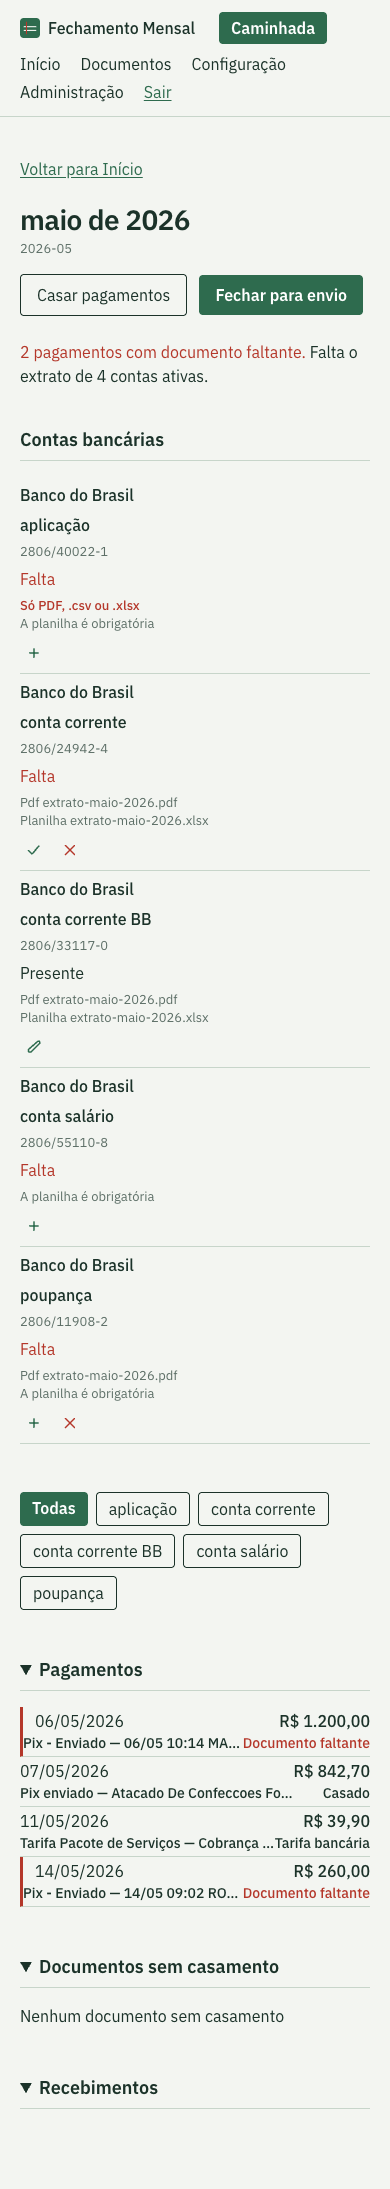
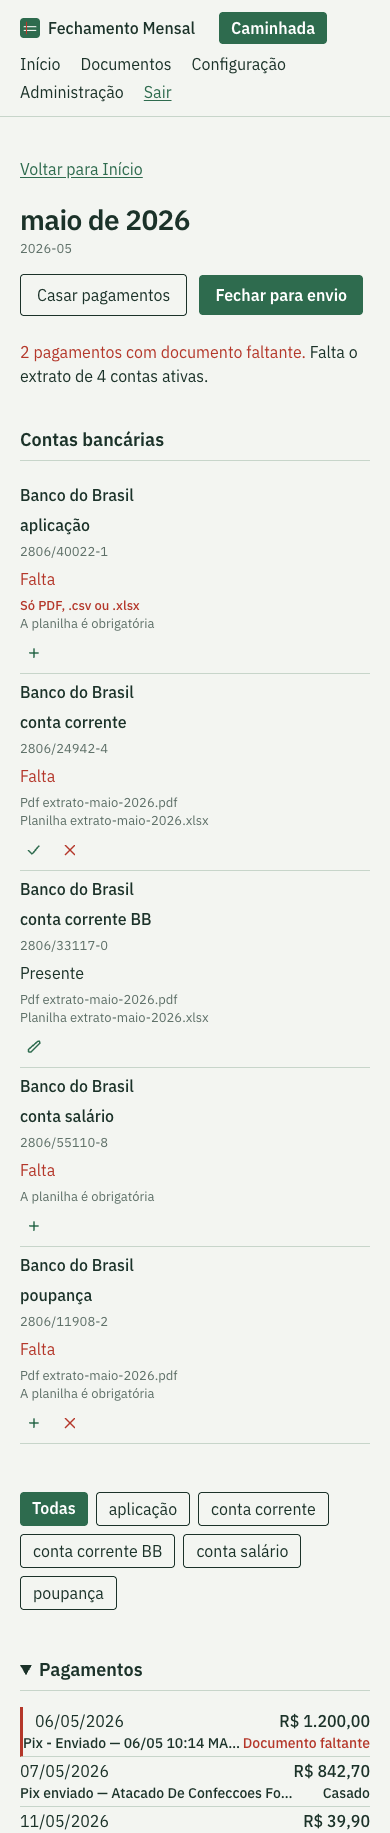
chore(specs): take the running screens at the capture's own size
The gate compares the picture to its capture inside a window of that size,
so both shots are now viewport captures at 1280x993 and 390x1833 rather than
full-page ones that ran 300px longer than the capture.

Changed region(s): [[0.0308, 0.0, 0.9538, 1.0], [0.4923, 0.4354, 0.5231, 0.4664]]

diff --git a/.specs/features/month-statement-row/screens.md b/.specs/features/month-statement-row/screens.md
@@ -116,3 +116,83 @@ reason below.
   against. The picture cannot carry that clause as drawn.
 - **type step**: only the first line is smaller; the history, the status, the `h1` and the file lines
   match to the pixel, so this is the page's own step at this width and not a resized picture.
+
+## Round 2
+
+**Verifier**: independent sub-agent (author != verifier)
+**Round**: 2
+**HEAD**: 332d9a7 - pictures re-saved at 730ae6e, product code last changed at 0875ede
+
+| Screen | Compared with | Verdict | Finding |
+| --- | --- | --- | --- |
+| `captures/statement-row.running.png` | `captures/statement-row.png` | matches | both reopened rows are now `same`: the nav carries `Administração`, and the sort glyphs are incumbent chrome whose tracks and rules match |
+| `captures/statement-row-390.running.png` | `captures/statement-row-390.png` | diverges | 1 reopened row still `differs`: the nav's arrangement. The gutter and the payment first line's type step are now `same` |
+
+Only the five rows that differed in round 1 were reopened. Rows that passed were re-read only where
+these fixes reach them, and none broke: no `differs - regression` in either picture.
+
+### `captures/statement-row.running.png` - reopened rows
+
+| Element | Round 1 | Now | Picture draws |
+| --- | --- | --- | --- |
+| nav, right: `Início`, `Documentos`, `Configuração`, `Administração`, `Sair` | differs | same | five links at y=18..42, 39 / 89 / 93 / 102 / 28px wide against the capture's 39 / 89 / 93 / 103 / 28 (1px of antialiasing on the longest label), `Sair` last and underlined, hairline under the header at y=56 against the capture's y=55 |
+| payment head labels carry sort glyphs | differs | same | note: `Data ↑` and `Valor ↕` are still drawn and the capture's labels are still bare, but the head's five tracks measure 151 / 472 / 128 / 160 / 176px and its rules sit at the same offsets in both, so nothing in the sheet moves. Incumbent sortable-ledger chrome the sketch omits; the plan does not change it and AD-0015 does not cover it - reported, not blocking |
+
+The rows these two fixes sit next to, re-read and unchanged: the payment rows still run a flat 43px
+each (799 / 842 / 885 / 928 in the capture, 856 / 899 / 942 / 985 in the picture), the amounts
+89 / 74 / 65 / 74px wide by 15px, the history lines 370 / 302 / 383 / 375px and the status words
+126 / 46 / 95px on the first three rows - every one of those widths identical to the capture - and
+the `render` row still reads `06/05/2026` 87×15 in both. The fourth row's status is 126px in the
+picture and 46px in the capture because the picture's fourth payment is `Documento faltante` where
+the capture's is `Casado` - the mixed fixture, not a type or track difference.
+
+### `captures/statement-row-390.running.png` - reopened rows
+
+| Element | Round 1 | Now | Picture draws |
+| --- | --- | --- | --- |
+| nav links | differs | differs | five links now: `Início` `Documentos` `Configuração` (39 / 89 / 93px) on one row at y=57..72 running x=21..284, then `Administração` `Sair` (103 / 27px) at y=85..100 running x=20..170. The capture keeps them in a right-hand column from x=185-186 to x=331 over three rows - `Início` `Documentos`, `Configuração` alone, then `Administração` `Sair` - beside a three-line brand block. Same five labels, same order, same underlined `Sair`; different wrap, and the picture's links start at the left gutter the brand uses |
+| content box: section rules, row rules and fold rules run the gutter to gutter | differs | same | every long rule runs x=20..369 at y=460, 673, 870, 1067, 1246, 1443, 1690, 1756, 1806, 1856, 1906, 1987 and 2108: a 20px gutter on both sides, as the capture draws. Round 1's 6px right gutter was the scrollbar |
+| type step of the payment row | differs | same | `06/05/2026` 87px wide in both (14px tall against the capture's 15) and `R$ 1.200,00` 74×15 at x=295..368 in both - the capture's step, no smaller first line |
+
+`differs` row, with the reading:
+
+- **nav**: the link set, its order and the underlined last `Sair` now read `same`; what still differs is
+  where the links sit and how they wrap. That follows from the brand block, not from the missing link:
+  the picture draws the organization as a badge on the brand's one line (`Fechamento Mensal` +
+  `Caminhada`, ending x=326), so the nav drops to the row below and spreads left to right, while the
+  sketch draws the name inline over three wrapped lines and keeps the nav in a right-hand column. The
+  header hairline sits at y=120 in the capture and y=116 in the picture, both full-bleed, and the five
+  labels measure the same, so this is inherited header chrome this feature does not touch - not a
+  regression of anything AD-0015 decided, and the nav must not be restyled to make the picture match.
+
+Payment rows re-read under the new mixed-status fixture and unchanged: the red margin is 3px at
+x=20..22 on rows 1 and 4 only (1707..1756 and 1857..1906), the two rows reading `Casado` and
+`Tarifa bancária` carry none, the second line is truncated with `…` in all four rows, the status words
+measure 129px wide and 10px tall against the capture's 129×11, and the Documento cell stays hidden at
+this width.
+
+### The two open questions from round 1
+
+**Closed at 1280.** The mixed fixture draws both readings the round-1 picture could not: the Documento
+column now carries `Atacado de Confecçõe…` in a 153px cell, the same 153px the capture truncates in,
+so AC 13's `…` is drawn and measured; and the red margin runs on the two `Documento faltante` rows
+only, so the "a missing row only" rule is visible. One residue, not a gap: the capture has two matched
+rows carrying payees (`Atacado…`, `Roselena Borges da Si…` 151px) and the picture has one, because its
+fourth payment is `Documento faltante` rather than `Casado` - the same fixture fact as the status
+column, and one instance already proves the rule at the capture's width.
+
+Nothing was open at 390 on truncation: the history truncates in all four rows of both pictures.
+
+### AC 15's no-horizontal-scroll clause
+
+**Carried.** The content box is x=20..369 inside a 390px window, 20px on both sides as the capture
+draws, and the only ink outside it is the full-bleed header hairline at y=116 (x=0..389), which the
+capture also draws full-bleed. The widest payment-row ink ends at x=368, the rules at 369, and no cell
+is clipped or scrolled off the window.
+
+### Verdict
+
+`captures/statement-row.running.png` **matches**. `captures/statement-row-390.running.png` **diverges**
+on the nav's arrangement alone - inherited header chrome, outside this feature and outside AD-0015.
+Every row this feature owns now reads `same` in both pictures, and the gutter row that carried AC 15
+reads `same`.
